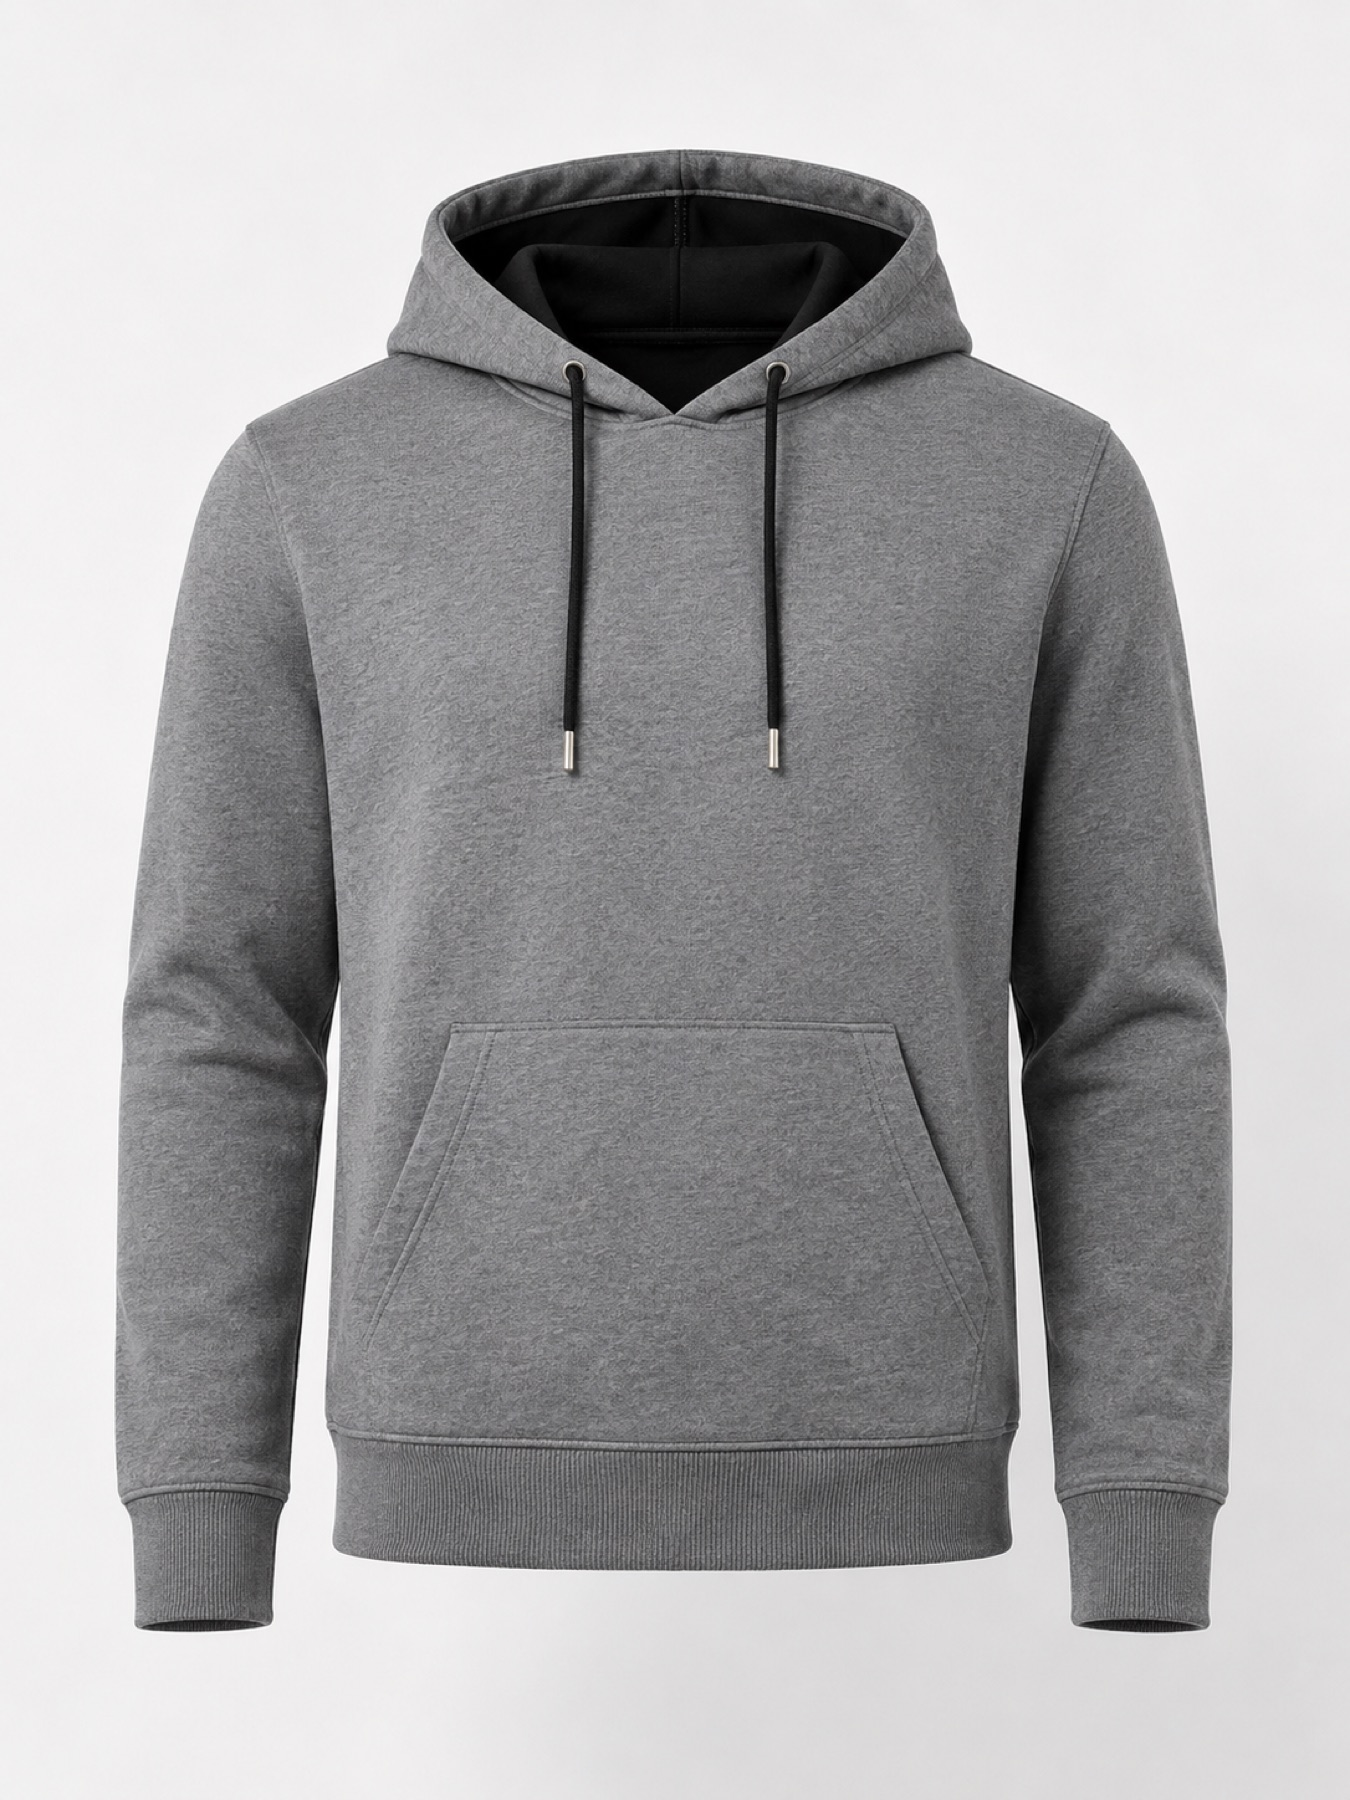
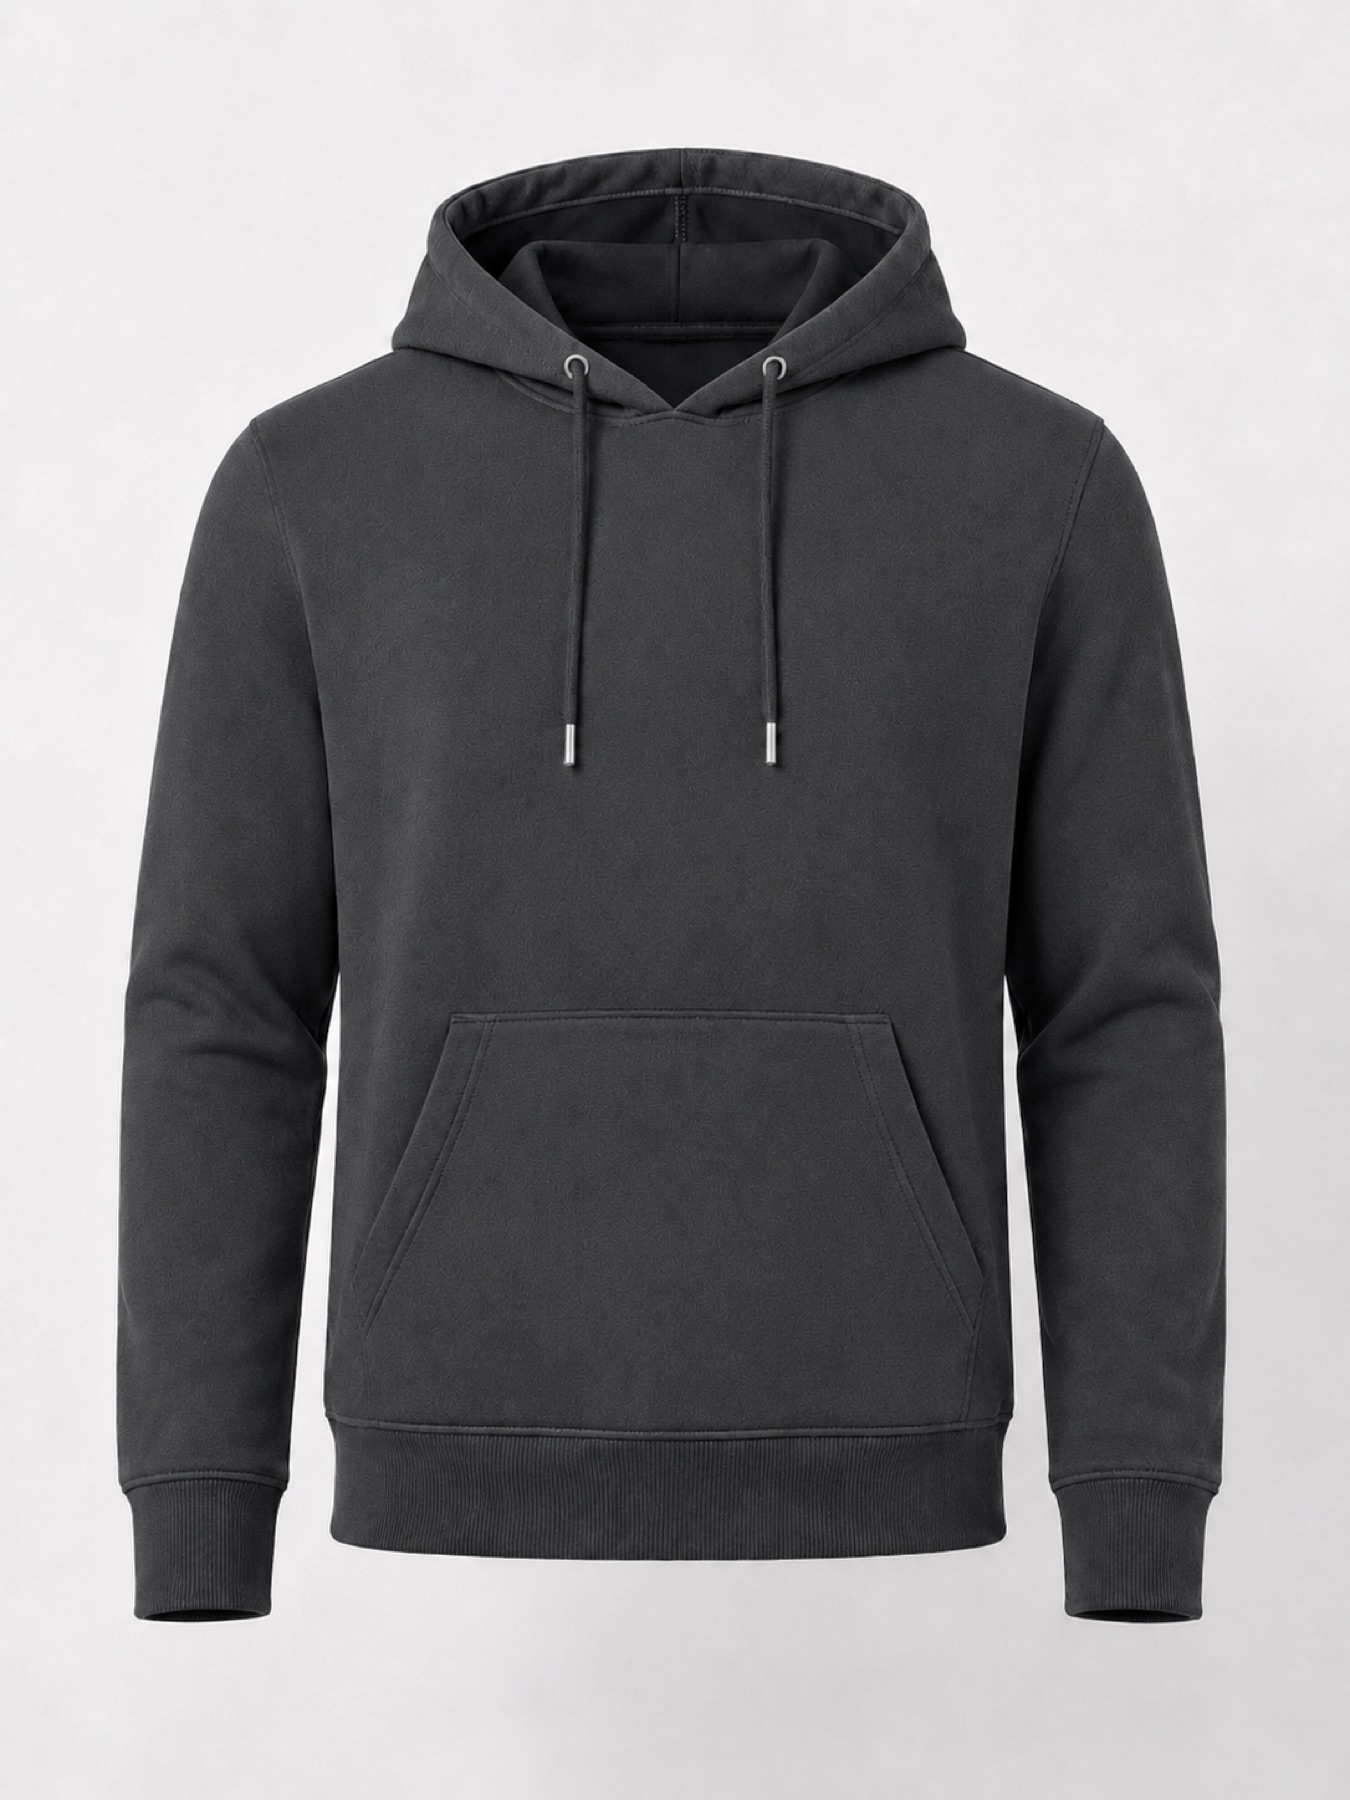
Reemplaza foto melange Kangaroo Hombre

diff --git a/script.js b/script.js
@@ -1403,7 +1403,7 @@ Object.entries(winterImageAdditionsByProductId).forEach(([productId, photoNumber
   ])].sort((a, b) => a - b);
 });
 
-const IMAGE_ASSET_VERSION = "20260827-11";
+const IMAGE_ASSET_VERSION = "20260827-12";
 
 const PRODUCTION_2027_IMAGE_SOURCE_BY_PRODUCT_ID = {
   118: 48,  // Merano

diff --git a/index.html b/index.html
@@ -236,6 +236,6 @@
     <a href="#catalogo">Volver al catálogo</a>
   </footer>
 
-  <script src="script.js?v=20260827-11"></script>
+  <script src="script.js?v=20260827-12"></script>
 </body>
 </html>
